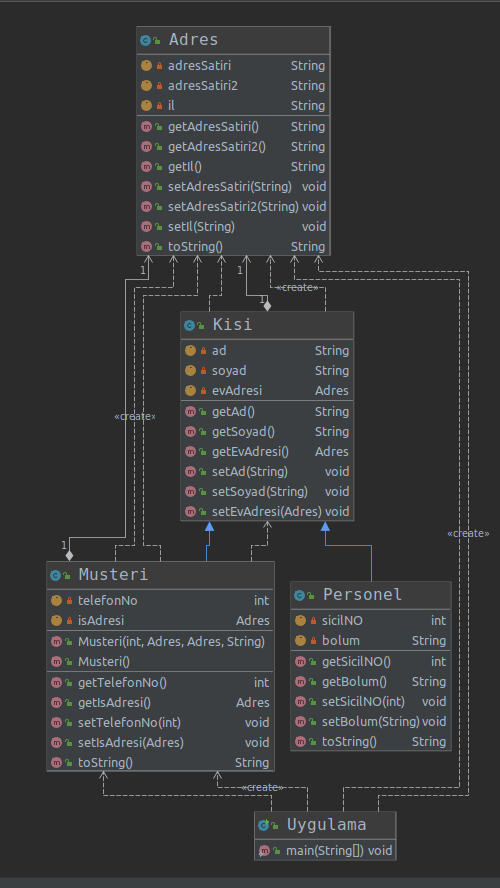
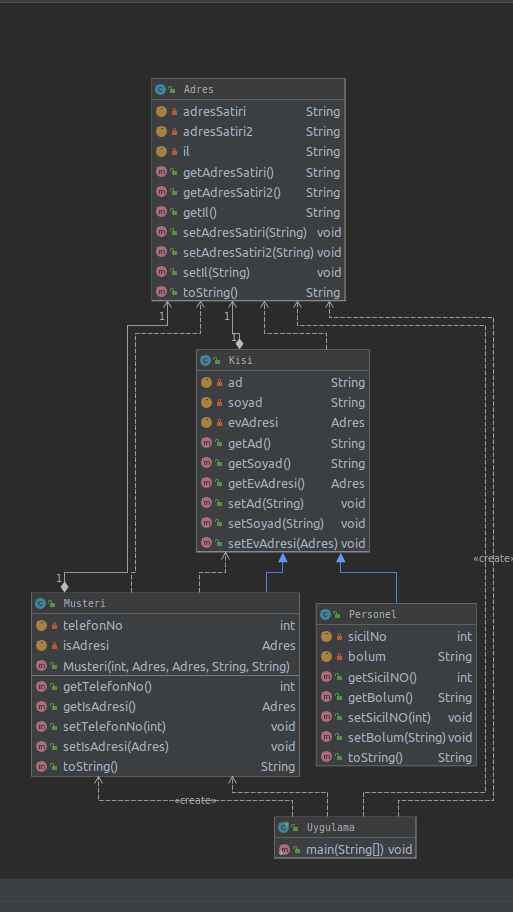
Laboratuvar Uygulaması

Changed region(s): [[0.06, 0.0304, 1.0, 0.973], [0.54, 0.3649, 0.57, 0.3953]]

diff --git a/Ders5/LaboratuvarUygulamasi/Uygulama.java b/Ders5/LaboratuvarUygulamasi/Uygulama.java
@@ -1,0 +1,57 @@
+package ders3.uygulama1;
+
+import java.io.IOException;
+import java.util.ArrayList;
+import java.util.List;
+import java.util.Scanner;
+
+public class Uygulama {
+        public static void main(String args[]) throws IOException {
+
+                char cevap;
+                List<Musteri> musteriler = new ArrayList<Musteri> ();
+
+                do {
+                        Scanner input = new Scanner(System.in);
+                        System.out.print("Müsterinin adini giriniz= ");
+                        String ad = input.nextLine();
+
+                        System.out.print("Müsterinin soyadını giriniz= ");
+                        String soyad = input.nextLine();
+
+                        System.out.print("Ev adresini giriniz= ");
+                        Adres evAdresi = new Adres();
+                        evAdresi.setAdresSatiri(input.nextLine());
+                        System.out.print("Ev adresine ekleme yapabilirsiniz= ");
+                        evAdresi.setAdresSatiri2(input.nextLine());
+                        System.out.print("Ev adresi il bilgisini giriniz= ");
+                        evAdresi.setIl(input.nextLine());
+
+                        Scanner input2 = new Scanner(System.in);
+                        System.out.print("Telefon no giriniz= ");
+                        Integer telNo = input2.nextInt();
+
+                        System.out.print("İş adresini giriniz= ");
+                        Adres isAdresi = new Adres();
+                        isAdresi.setAdresSatiri(input.nextLine());
+                        System.out.print("İş adresine ekleme yapabilirsiniz= ");
+                        isAdresi.setAdresSatiri2(input.nextLine());
+                        System.out.print("İş adresi il bilgisini giriniz= ");
+                        isAdresi.setIl(input.nextLine());
+
+                        Musteri musterigecici = new Musteri(telNo, isAdresi, evAdresi, ad, soyad);
+                        musteriler.add(musterigecici);
+                        System.out.println("Devam etmek istiyor musunuz ?");
+                        cevap = (char) System.in.read();
+                        input.nextLine();
+
+                }while(cevap!='h');
+
+
+                for(Musteri str : musteriler) {
+                        System.out.println(str.toString());
+                }
+
+        }
+
+}

diff --git a/Ders5/LaboratuvarUygulamasi/Musteri.java b/Ders5/LaboratuvarUygulamasi/Musteri.java
@@ -1,0 +1,45 @@
+package ders3.uygulama1;
+
+import java.util.Scanner;
+
+public class Musteri extends Kisi{
+
+    private int telefonNo;
+    private Adres isAdresi;
+
+
+    public int getTelefonNo() {
+        return telefonNo;
+    }
+
+    public Adres getIsAdresi() {
+        return isAdresi;
+    }
+
+    public void setTelefonNo(int telefonNo) {
+        this.telefonNo = telefonNo;
+    }
+
+    public void setIsAdresi(Adres isAdresi) {
+        this.isAdresi = isAdresi;
+    }
+
+    public Musteri(int telefonNo, Adres isAdresi, Adres evAdresi, String ad,String soyad) {
+        this.telefonNo = telefonNo;
+        this.isAdresi = isAdresi;
+        super.setEvAdresi(evAdresi);
+        super.setAd(ad);
+        super.setSoyad(soyad);
+    }
+
+    @Override
+    public String toString() {
+        return "Musteri{" +
+                "telefonNo=" + telefonNo +
+                ", isAdresi=" + isAdresi +
+                ", ad='" + getAd() + '\'' +
+                ", soyad='" + getSoyad() + '\'' +
+                ", evAdresi=" + getEvAdresi() +
+                '}';
+    }
+}

diff --git a/Ders5/LaboratuvarUygulamasi/Adres.java b/Ders5/LaboratuvarUygulamasi/Adres.java
@@ -1,0 +1,40 @@
+package ders3.uygulama1;
+
+public class Adres {
+
+    private String adresSatiri;
+    private String adresSatiri2;
+    private String il;
+
+    public String getAdresSatiri() {
+        return adresSatiri;
+    }
+
+    public String getAdresSatiri2() {
+        return adresSatiri2;
+    }
+
+    public String getIl() {
+        return il;
+    }
+
+    public void setAdresSatiri(String adresSatiri) {
+        this.adresSatiri = adresSatiri;
+    }
+
+    public void setAdresSatiri2(String adresSatiri2) {
+        this.adresSatiri2 = adresSatiri2;
+    }
+
+    public void setIl(String il) { this.il = il;
+    }
+
+    @Override
+    public String toString() {
+        return "Adres{" +
+                "adresSatiri='" + adresSatiri + '\'' +
+                ", adresSatiri2='" + adresSatiri2 + '\'' +
+                ", il='" + il + '\'' +
+                '}';
+    }
+}

diff --git a/Ders5/LaboratuvarUygulamasi/Personel.java b/Ders5/LaboratuvarUygulamasi/Personel.java
@@ -1,0 +1,35 @@
+package ders3.uygulama1;
+
+
+import javax.print.DocFlavor;
+import java.util.Scanner;
+
+public class Personel extends Kisi{
+
+    private int sicilNO;
+    private String bolum;
+
+    public int getSicilNO() {
+        return sicilNO;
+    }
+
+    public String getBolum() {
+        return bolum;
+    }
+
+    public void setSicilNO(int sicilNO) {
+        this.sicilNO = sicilNO;
+    }
+
+    public void setBolum(String bolum) {
+        this.bolum = bolum;
+    }
+
+    @Override
+    public String toString() {
+        return "Personel{" +
+                "sicilNO=" + sicilNO +
+                ", bolum='" + bolum + '\'' +
+                '}';
+    }
+}

diff --git a/Ders5/LaboratuvarUygulamasi/Kisi.java b/Ders5/LaboratuvarUygulamasi/Kisi.java
@@ -1,0 +1,31 @@
+package ders3.uygulama1;
+
+public class Kisi {
+
+    private String ad;
+    private String soyad;
+    private Adres evAdresi;
+
+    public String getAd() {
+        return ad;
+    }
+
+    public String getSoyad() {
+        return soyad;
+    }
+
+    public Adres getEvAdresi() {
+        return evAdresi;
+    }
+
+    public void setAd(String ad) {
+        this.ad = ad;
+    }
+
+    public void setSoyad(String soyad) {
+        this.soyad = soyad;
+    }
+
+    public void setEvAdresi(Adres evAdresi) { this.evAdresi = evAdresi;
+    }
+}
